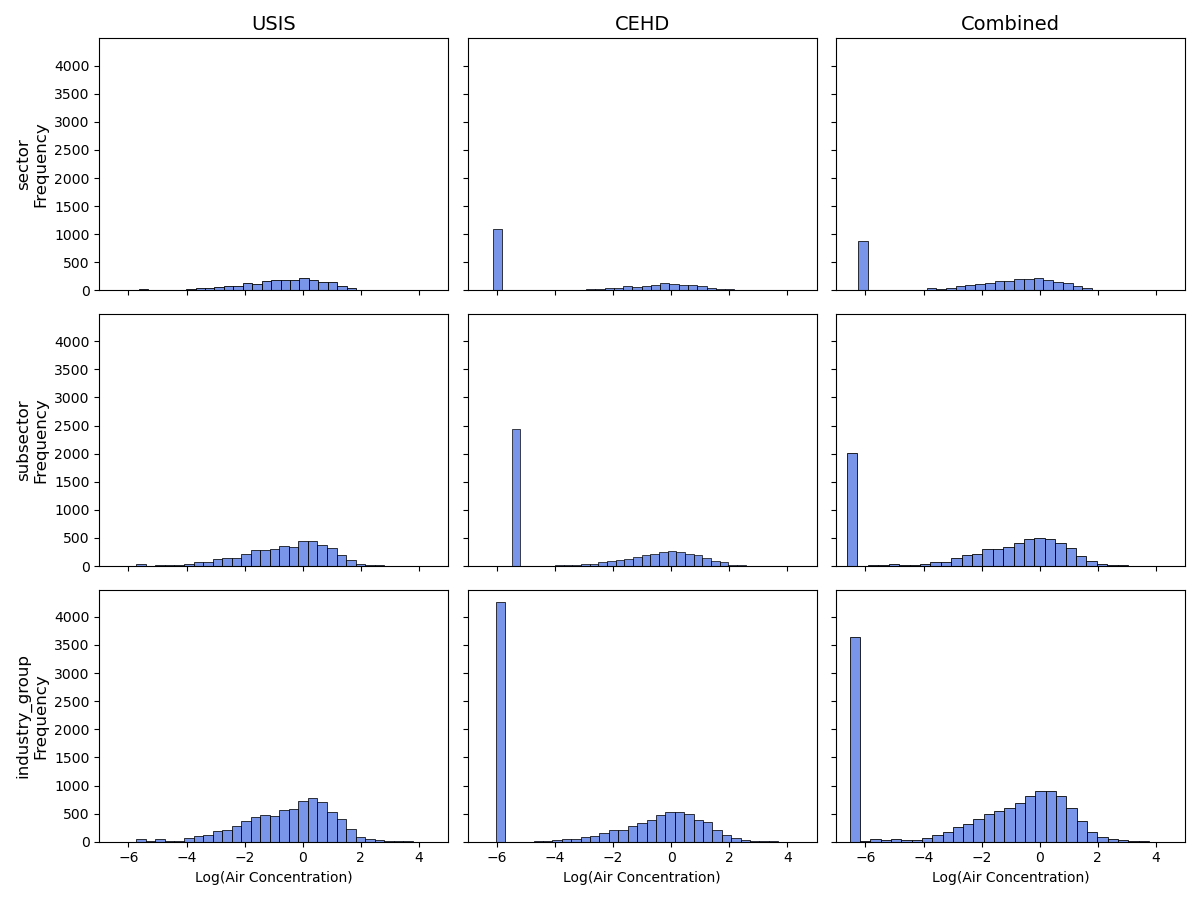
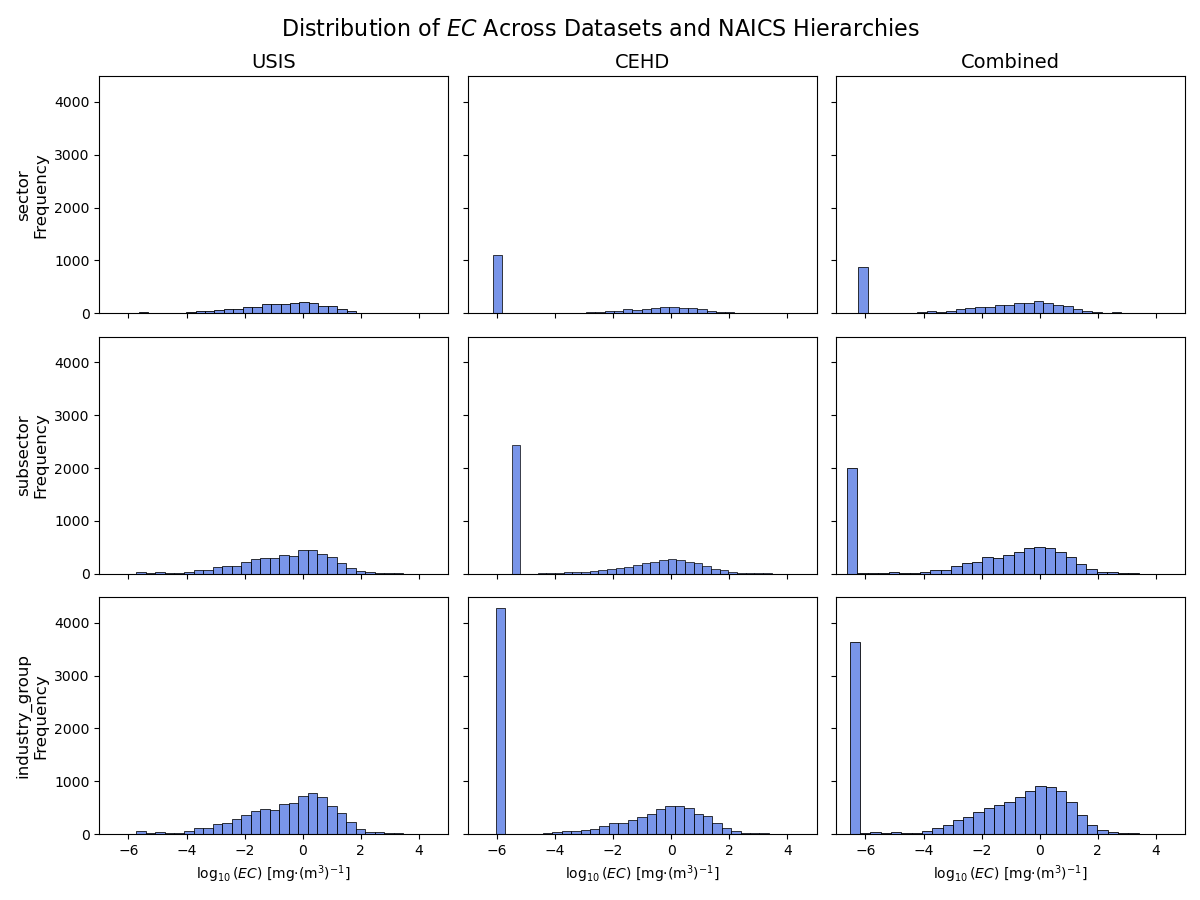
Refactor plot.histogram_grid: Clean up labels

diff --git a/plot.py b/plot.py
@@ -11,6 +11,11 @@ import seaborn as sns
 # FIXME: Should be able to load the function directly?
 from raw_processing import osha_cleaning
 
+# TODO: Move to plot config
+EC_LABEL = r'$\log_{10}(\mathit{EC})$ [mg$\cdot$(m$^3$)$^{-1}$]'
+
+NOTE = 'Note: Zeros (non-detects) replaced with 0.5 x smallest non-zero value before log-transformation.'
+
 #region: cumulative_changes
 def cumulative_changes(log_file, initial_count):
     '''
@@ -185,11 +190,17 @@ def histogram_grid(data, write_path=None):
                 ax.set_title(f'{dataset}', fontsize=14)
             if j == 0:  # First column labels for hierarchies
                 ax.set_ylabel(f'{hierarchy}\nFrequency', fontsize=12)
-            ax.set_xlabel('Log(Air Concentration)', fontsize=10)
+            ax.set_xlabel(EC_LABEL, fontsize=10)
 
             # Set consistent x-axis limits
             ax.set_xlim(x_min, x_max)
 
+    fig.suptitle(
+        r'Distribution of $\mathit{EC}$ Across Datasets and NAICS Hierarchies',
+        size=16)
+
+    plt.figtext(0.5, -0.02, NOTE, ha='center', fontsize=10, style='italic')
+    
     # --- Step 4: Final Adjustments and Save ---
     plt.tight_layout()
 
